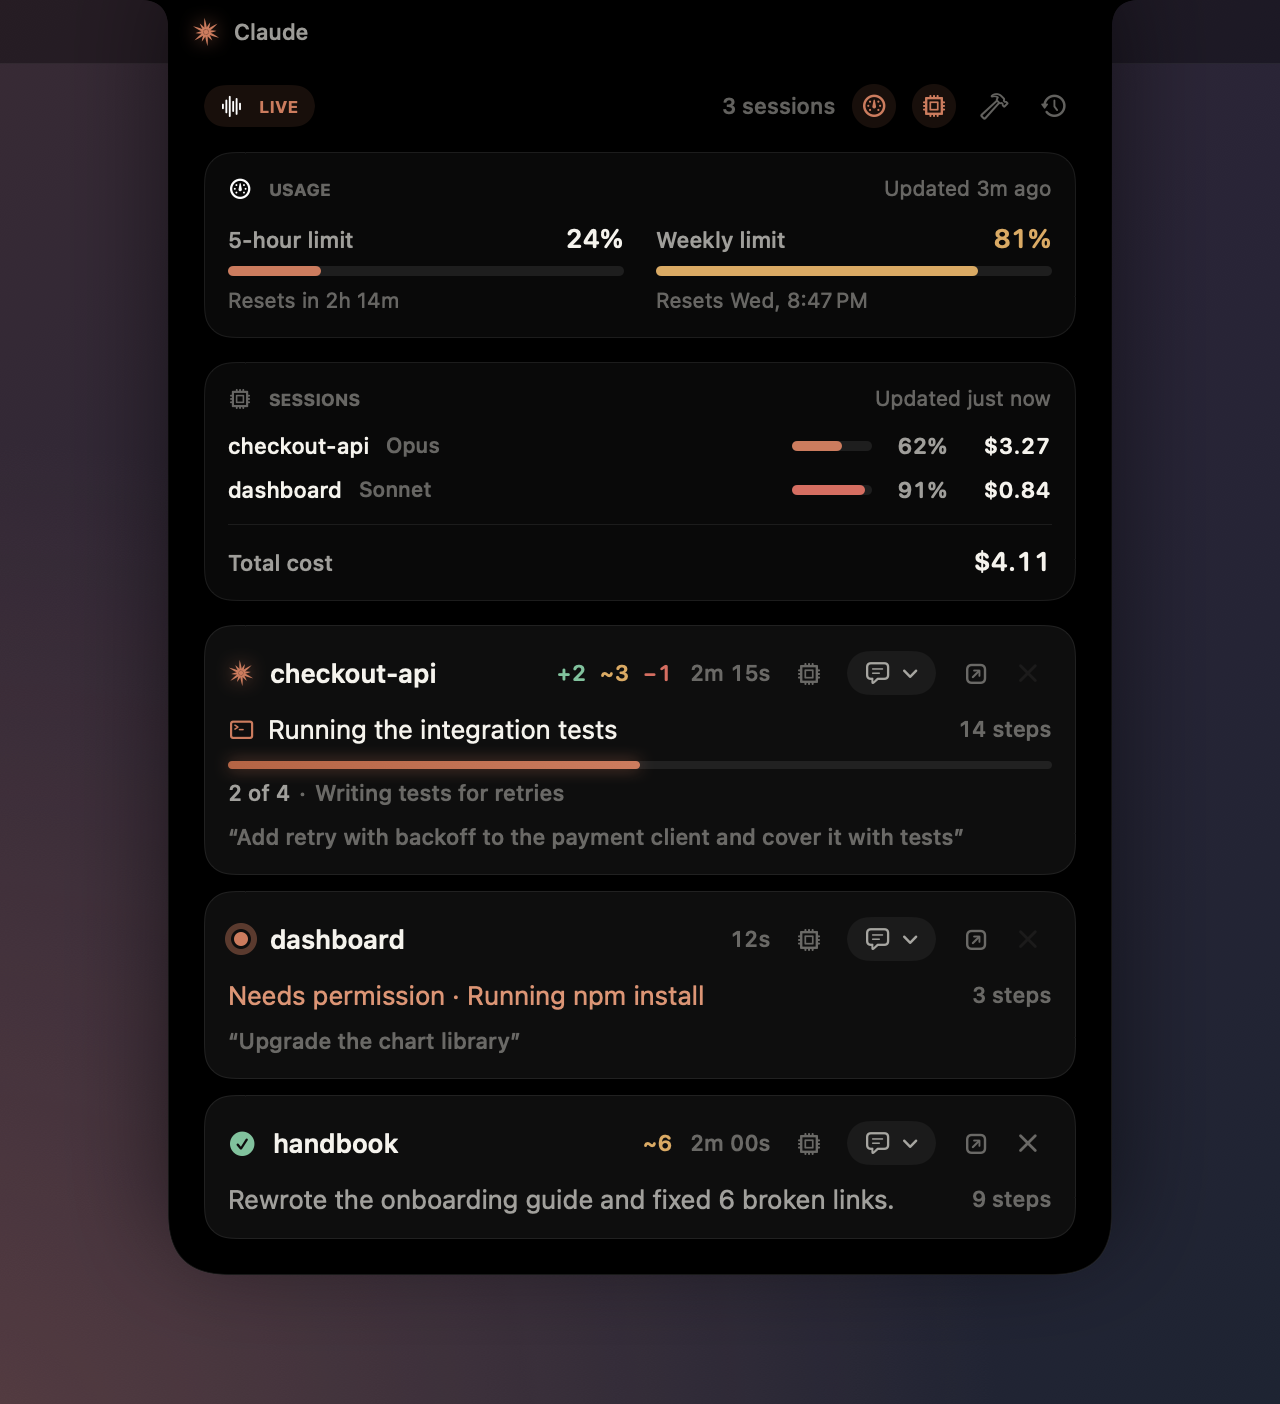
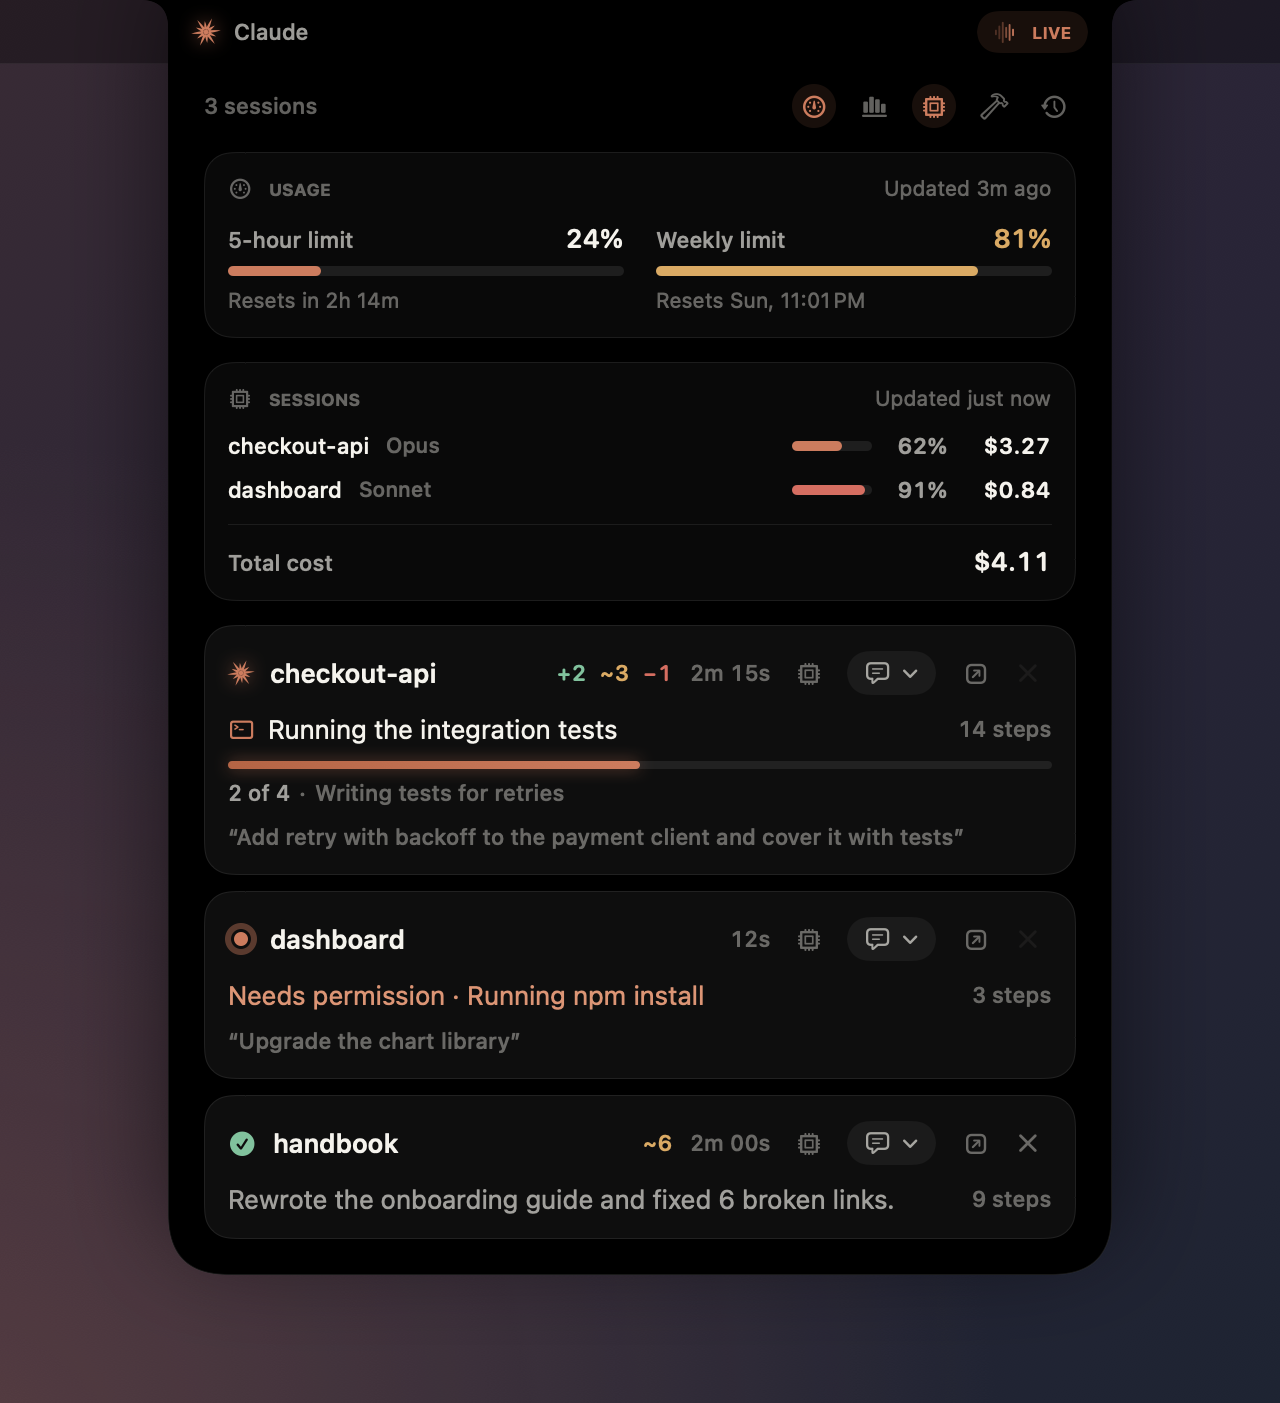
Update version to 2.13.1 and enhance ActivityPanelView and IslandStatusBar
- Bumped version number to 2.13.1 in Info.plist and UpdateBanner.swift for consistency.
- Improved ActivityPanelView layout by refining the compact case description and removing redundant code.
- Introduced ActivityPill in IslandStatusBar to visually indicate activity status when expanded.
- Updated various assets related to activity visuals for better representation.

diff --git a/Sources/NotchGate/Features/Activity/ActivityPanelView.swift b/Sources/NotchGate/Features/Activity/ActivityPanelView.swift
@@ -231,7 +231,7 @@ struct ActivityPanelView: View {
         case full
         /// No session count (the list below shows the sessions anyway).
         case withoutCount
-        /// "Activity" and "Auto-allow" shrink to their icons; "Update" keeps its word.
+        /// "Auto-allow" shrinks to its icon; "Update" keeps its word.
         case compact
     }
 
@@ -252,9 +252,13 @@ struct ActivityPanelView: View {
 
     private func statusPills(count: Int, fit: HeaderFit) -> some View {
         HStack(spacing: 8) {
-            let title = tracker.workingCount > 0 ? "Live" : "Activity"
-            pill(title, systemImage: "waveform", iconOnly: fit == .compact)
-                .help(fit == .compact ? title : "")
+            if count > 0, fit == .full {
+                Text(count == 1 ? "1 session" : "\(count) sessions")
+                    .font(Theme.Typeface.caption)
+                    .foregroundStyle(Theme.Palette.textTertiary)
+                    .lineLimit(1)
+                    .fixedSize()
+            }
             if settings.autoAllowPermissions {
                 Group {
                     if fit == .compact {
@@ -276,32 +280,7 @@ struct ActivityPanelView: View {
                     .transition(.opacity.combined(with: .scale(scale: 0.9, anchor: .leading)))
             }
             Spacer(minLength: 0)
-            if count > 0, fit == .full {
-                Text(count == 1 ? "1 session" : "\(count) sessions")
-                    .font(Theme.Typeface.caption)
-                    .foregroundStyle(Theme.Palette.textTertiary)
-                    .lineLimit(1)
-                    .fixedSize()
-            }
         }
-    }
-
-    private func pill(_ title: String, systemImage: String, iconOnly: Bool) -> some View {
-        Group {
-            if iconOnly {
-                Image(systemName: systemImage)
-            } else {
-                Label(title, systemImage: systemImage)
-            }
-        }
-        .font(Theme.Typeface.micro)
-        .foregroundStyle(Theme.Palette.clay)
-        .lineLimit(1)
-        .fixedSize()
-        .padding(.horizontal, 8)
-        .padding(.vertical, 4)
-        .background(Capsule().fill(Theme.Palette.clay.opacity(0.12)))
-        .accessibilityLabel(title)
     }
 
     /// One button per widget that's switched on, to show or hide its card.

diff --git a/Sources/NotchGate/Features/Island/Views/IslandStatusBar.swift b/Sources/NotchGate/Features/Island/Views/IslandStatusBar.swift
@@ -59,11 +59,38 @@ struct IslandStatusBar: View {
         } else if showsMusic {
             EqualizerBars(isPlaying: true, color: musicAccent, height: 12)
                 .transition(.scale(scale: 0.5).combined(with: .opacity))
+        } else if presentation == .expanded, model.isShowingActivity {
+            ActivityPill(isLive: model.activity.workingCount > 0)
+                .transition(.opacity)
         }
     }
 
     private var sparkColor: Color {
         model.store.notice?.tone == .done && !model.store.hasPending ? Theme.Palette.success : Theme.Palette.clay
+    }
+}
+
+/// Mirrors "✦ Claude" across the camera while the hover panel is open:
+/// "Activity", or "Live" with a moving waveform while a session works.
+private struct ActivityPill: View {
+    let isLive: Bool
+
+    var body: some View {
+        let title = isLive ? "Live" : "Activity"
+        Label {
+            Text(title)
+        } icon: {
+            Image(systemName: "waveform")
+                .symbolEffect(.variableColor.iterative, options: .repeating, isActive: isLive)
+        }
+        .font(Theme.Typeface.micro)
+        .foregroundStyle(Theme.Palette.clay)
+        .lineLimit(1)
+        .fixedSize()
+        .padding(.horizontal, 8)
+        .padding(.vertical, 4)
+        .background(Capsule().fill(Theme.Palette.clay.opacity(0.12)))
+        .accessibilityLabel(title)
     }
 }
 

diff --git a/Sources/NotchGate/Features/MenuBar/UpdateBanner.swift b/Sources/NotchGate/Features/MenuBar/UpdateBanner.swift
@@ -147,7 +147,7 @@ struct UpdateStatusView: View {
 
     private var versionText: String {
         // Dev builds (`swift run`) have no Info.plist; fall back to the release version.
-        let version = Bundle.main.object(forInfoDictionaryKey: "CFBundleShortVersionString") as? String ?? "2.13.0"
+        let version = Bundle.main.object(forInfoDictionaryKey: "CFBundleShortVersionString") as? String ?? "2.13.1"
         return updates.shortInstalledCommit.map { "v\(version) (\($0))" } ?? "v\(version)"
     }
 }
